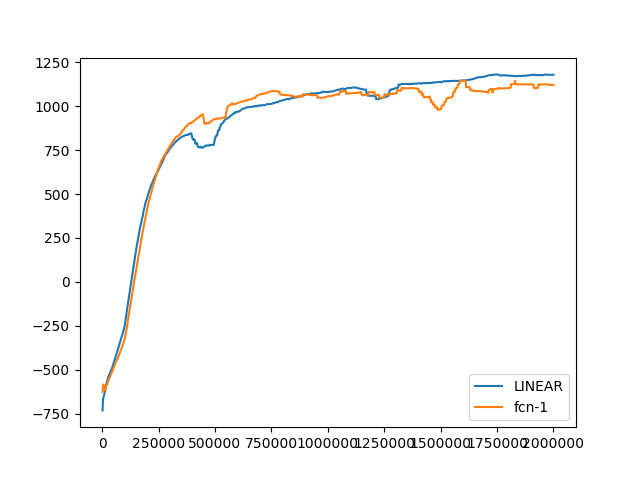
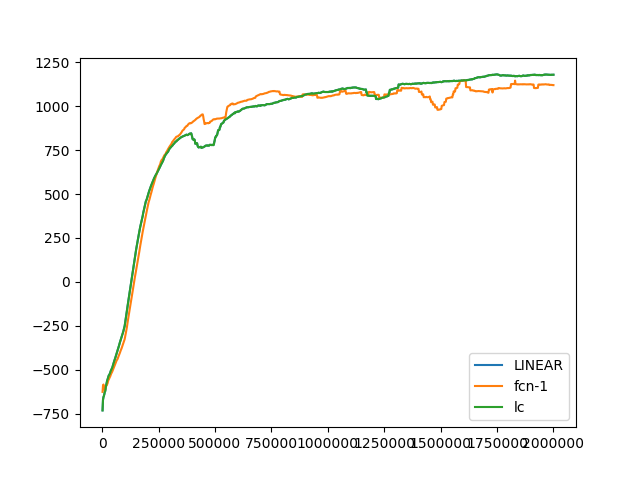
.

diff --git a/plot.py b/plot.py
@@ -2,7 +2,7 @@ import numpy as np
 import matplotlib.pyplot as plt
 
 env_id = "HalfCheetah-v2"
-seeds = [1]
+seeds = [2]
 reward_scales=[0.1]
 for seed in seeds:
     for reward_scale in reward_scales:
@@ -10,12 +10,15 @@ for seed in seeds:
         linear_ts = np.loadtxt('./baselines/ppo1/data/'+env_id+'_s'+str(seed)+'_r'+str(reward_scale)+'_ts.txt')
         fcn_rewards = np.loadtxt('./baselines/fcn/data/'+env_id+'_s'+str(seed)+'_r'+str(reward_scale)+'_rew.txt')* (1 / reward_scale)
         fcn_ts = np.loadtxt('./baselines/fcn/data/'+env_id+'_s'+str(seed)+'_r'+str(reward_scale)+'_ts.txt')
+        lc_rewards = np.loadtxt('./baselines/ppoc/data/'+env_id+'_s'+str(seed)+'_r'+str(reward_scale)+'_rew.txt')* (1 / reward_scale)
+        lc_ts = np.loadtxt('./baselines/ppoc/data/'+env_id+'_s'+str(seed)+'_r'+str(reward_scale)+'_ts.txt')
 
 
         fig, ax = plt.subplots()
 
         ax.plot(linear_ts, linear_rewards,  label='LINEAR')
         ax.plot(fcn_ts, fcn_rewards,  label='fcn-1')
+        ax.plot(lc_ts, lc_rewards,  label='lc')
 
         legend = ax.legend(loc='lower right')
 

diff --git a/baselines/ppoc/mlp_policy.py b/baselines/ppoc/mlp_policy.py
@@ -17,7 +17,7 @@ class MlpPolicy(object):
 
         num_actors = 1
 
-        self.cpdtype = cpdtype = CategoricalPdType(num_actors)
+        #self.cpdtype = cpdtype = CategoricalPdType(num_actors)
         self.pdtype = pdtype = make_pdtype(ac_space)
         sequence_length = None
 
@@ -42,10 +42,10 @@ class MlpPolicy(object):
             hidden_decision = tf.layers.dense(last_out, num_actors, name="final", kernel_initializer=U.normc_initializer(0.01))
 
         # get the choice probability distribution
-        self.cpd = cpdtype.pdfromflat(hidden_decision)
+        #self.cpd = cpdtype.pdfromflat(hidden_decision)
         #TODO: not sure of sampling or mode
-        self.choice = ch =self.cpd.sample()
-        
+        #self.choice = ch =self.cpd.sample()
+
         with tf.variable_scope('pol'):
             last_out = obz
             for i in range(num_hid_layers):
